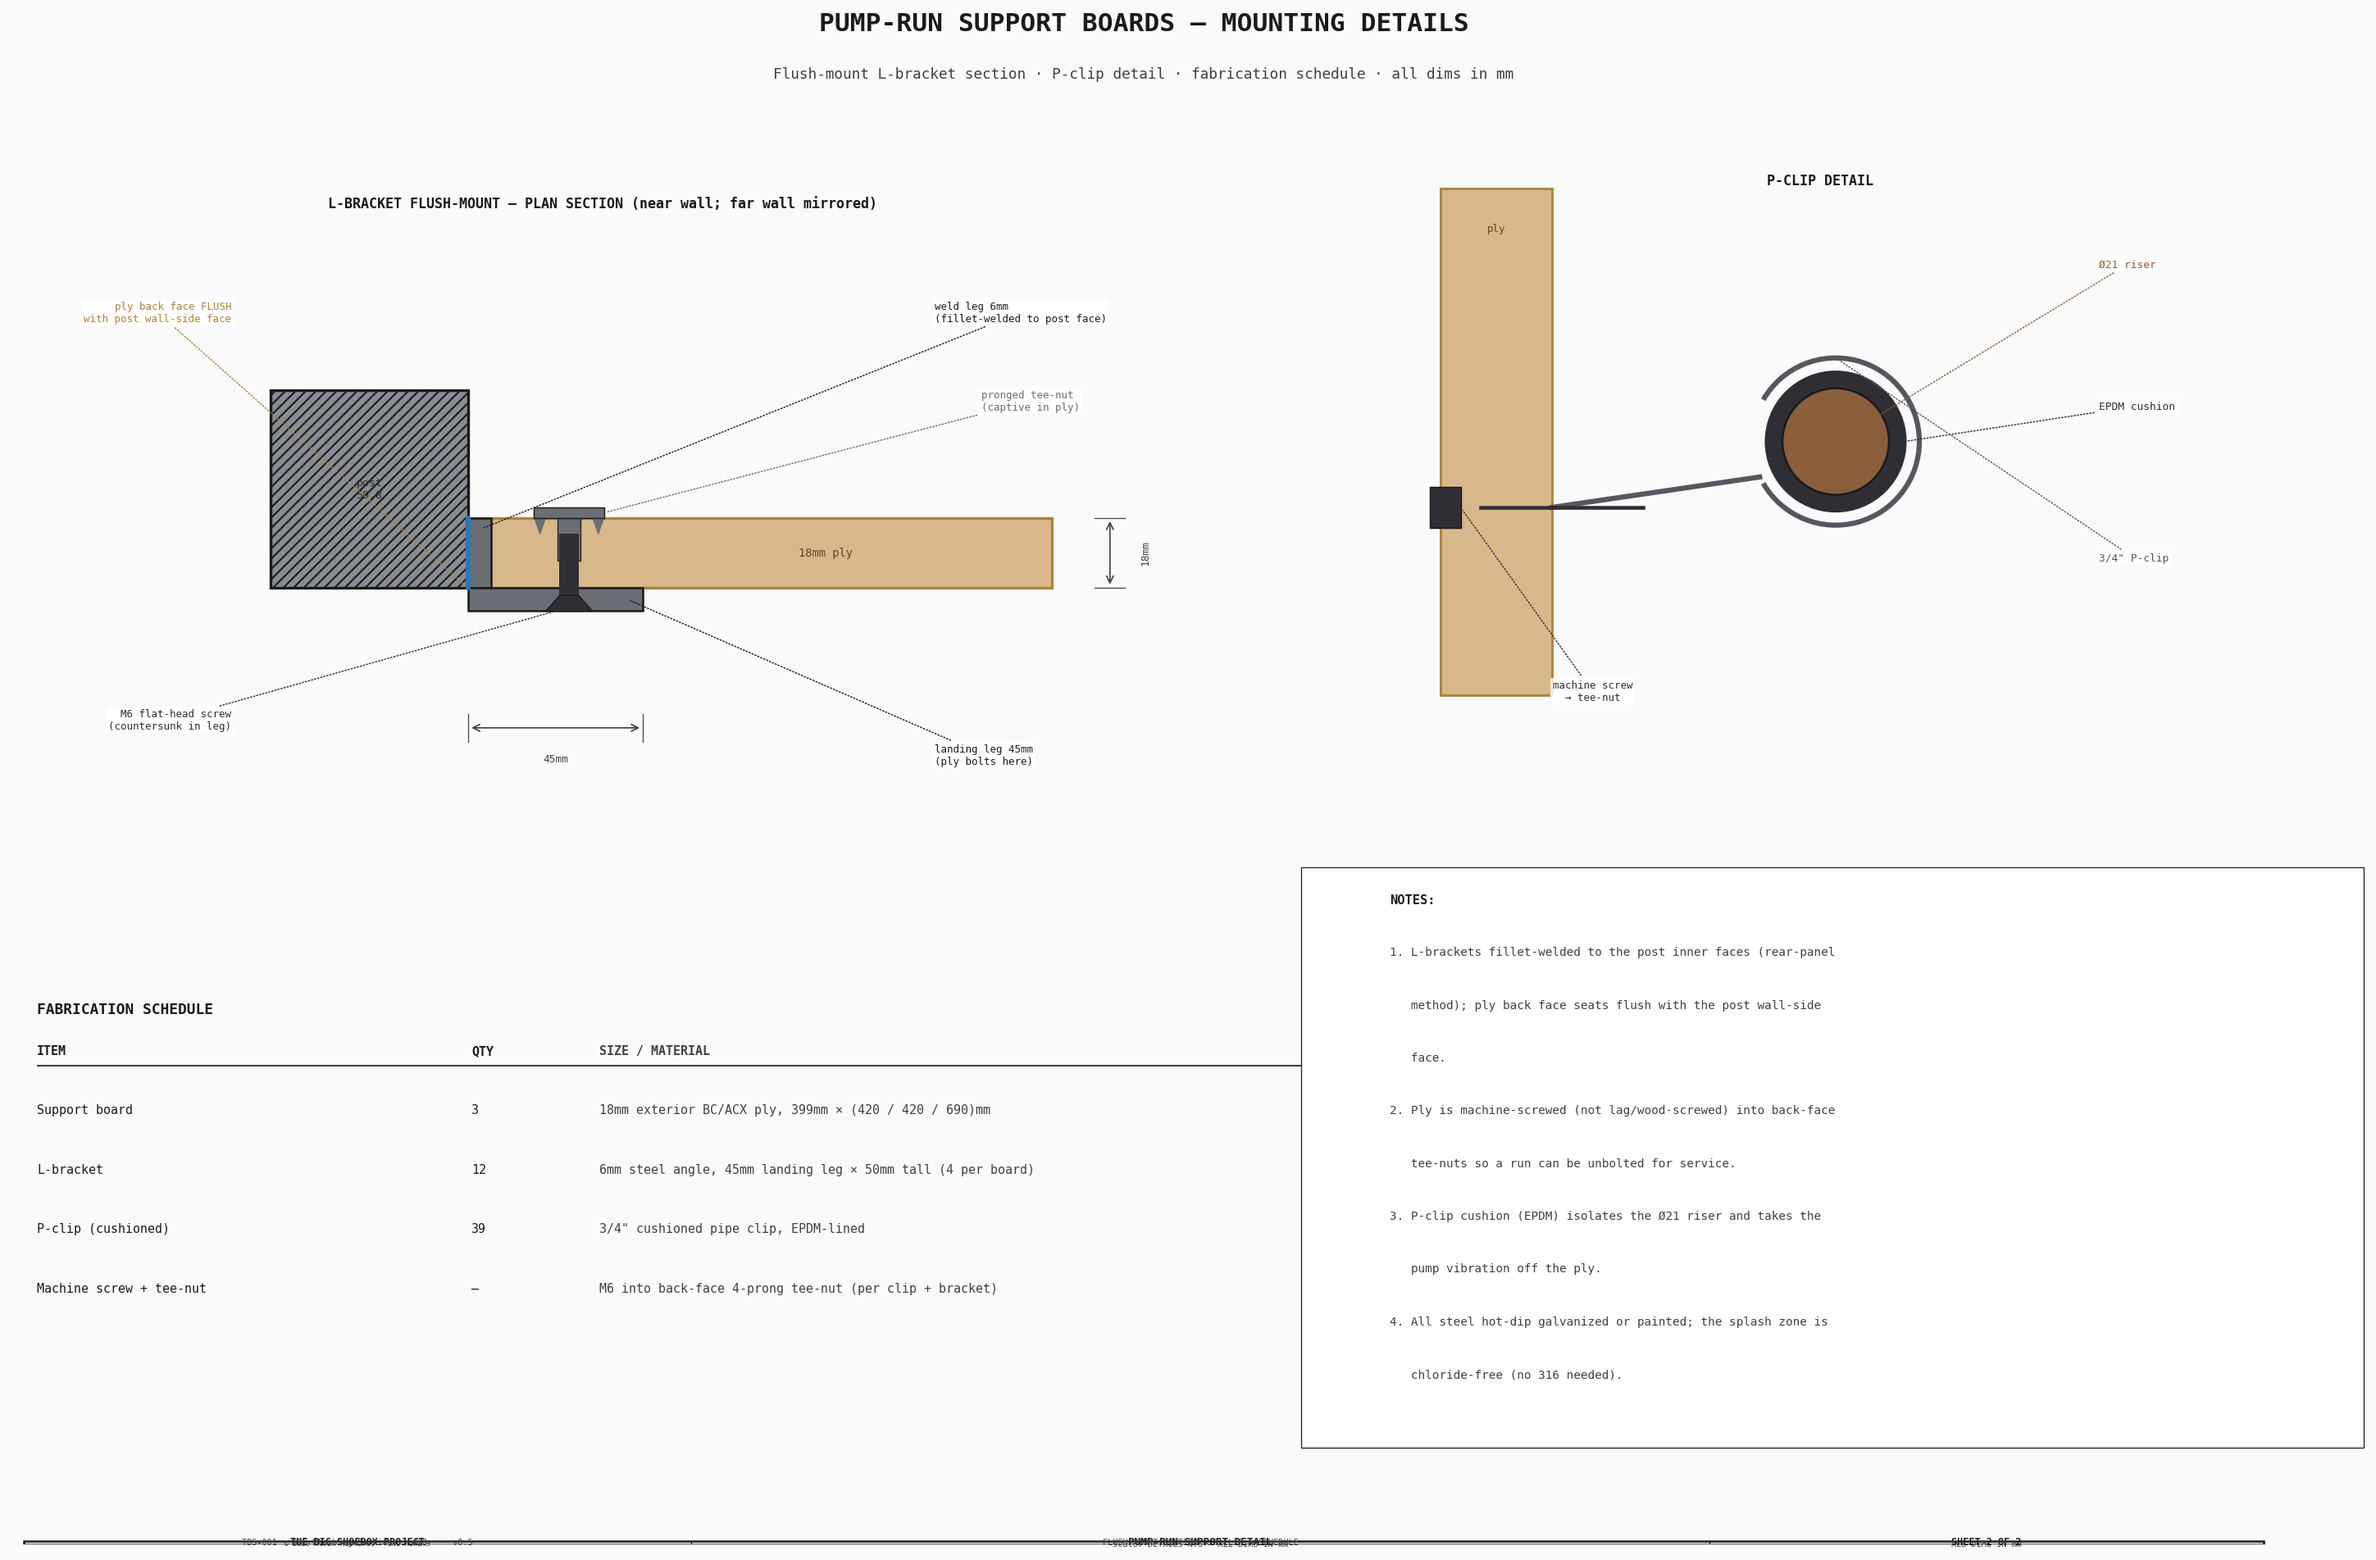
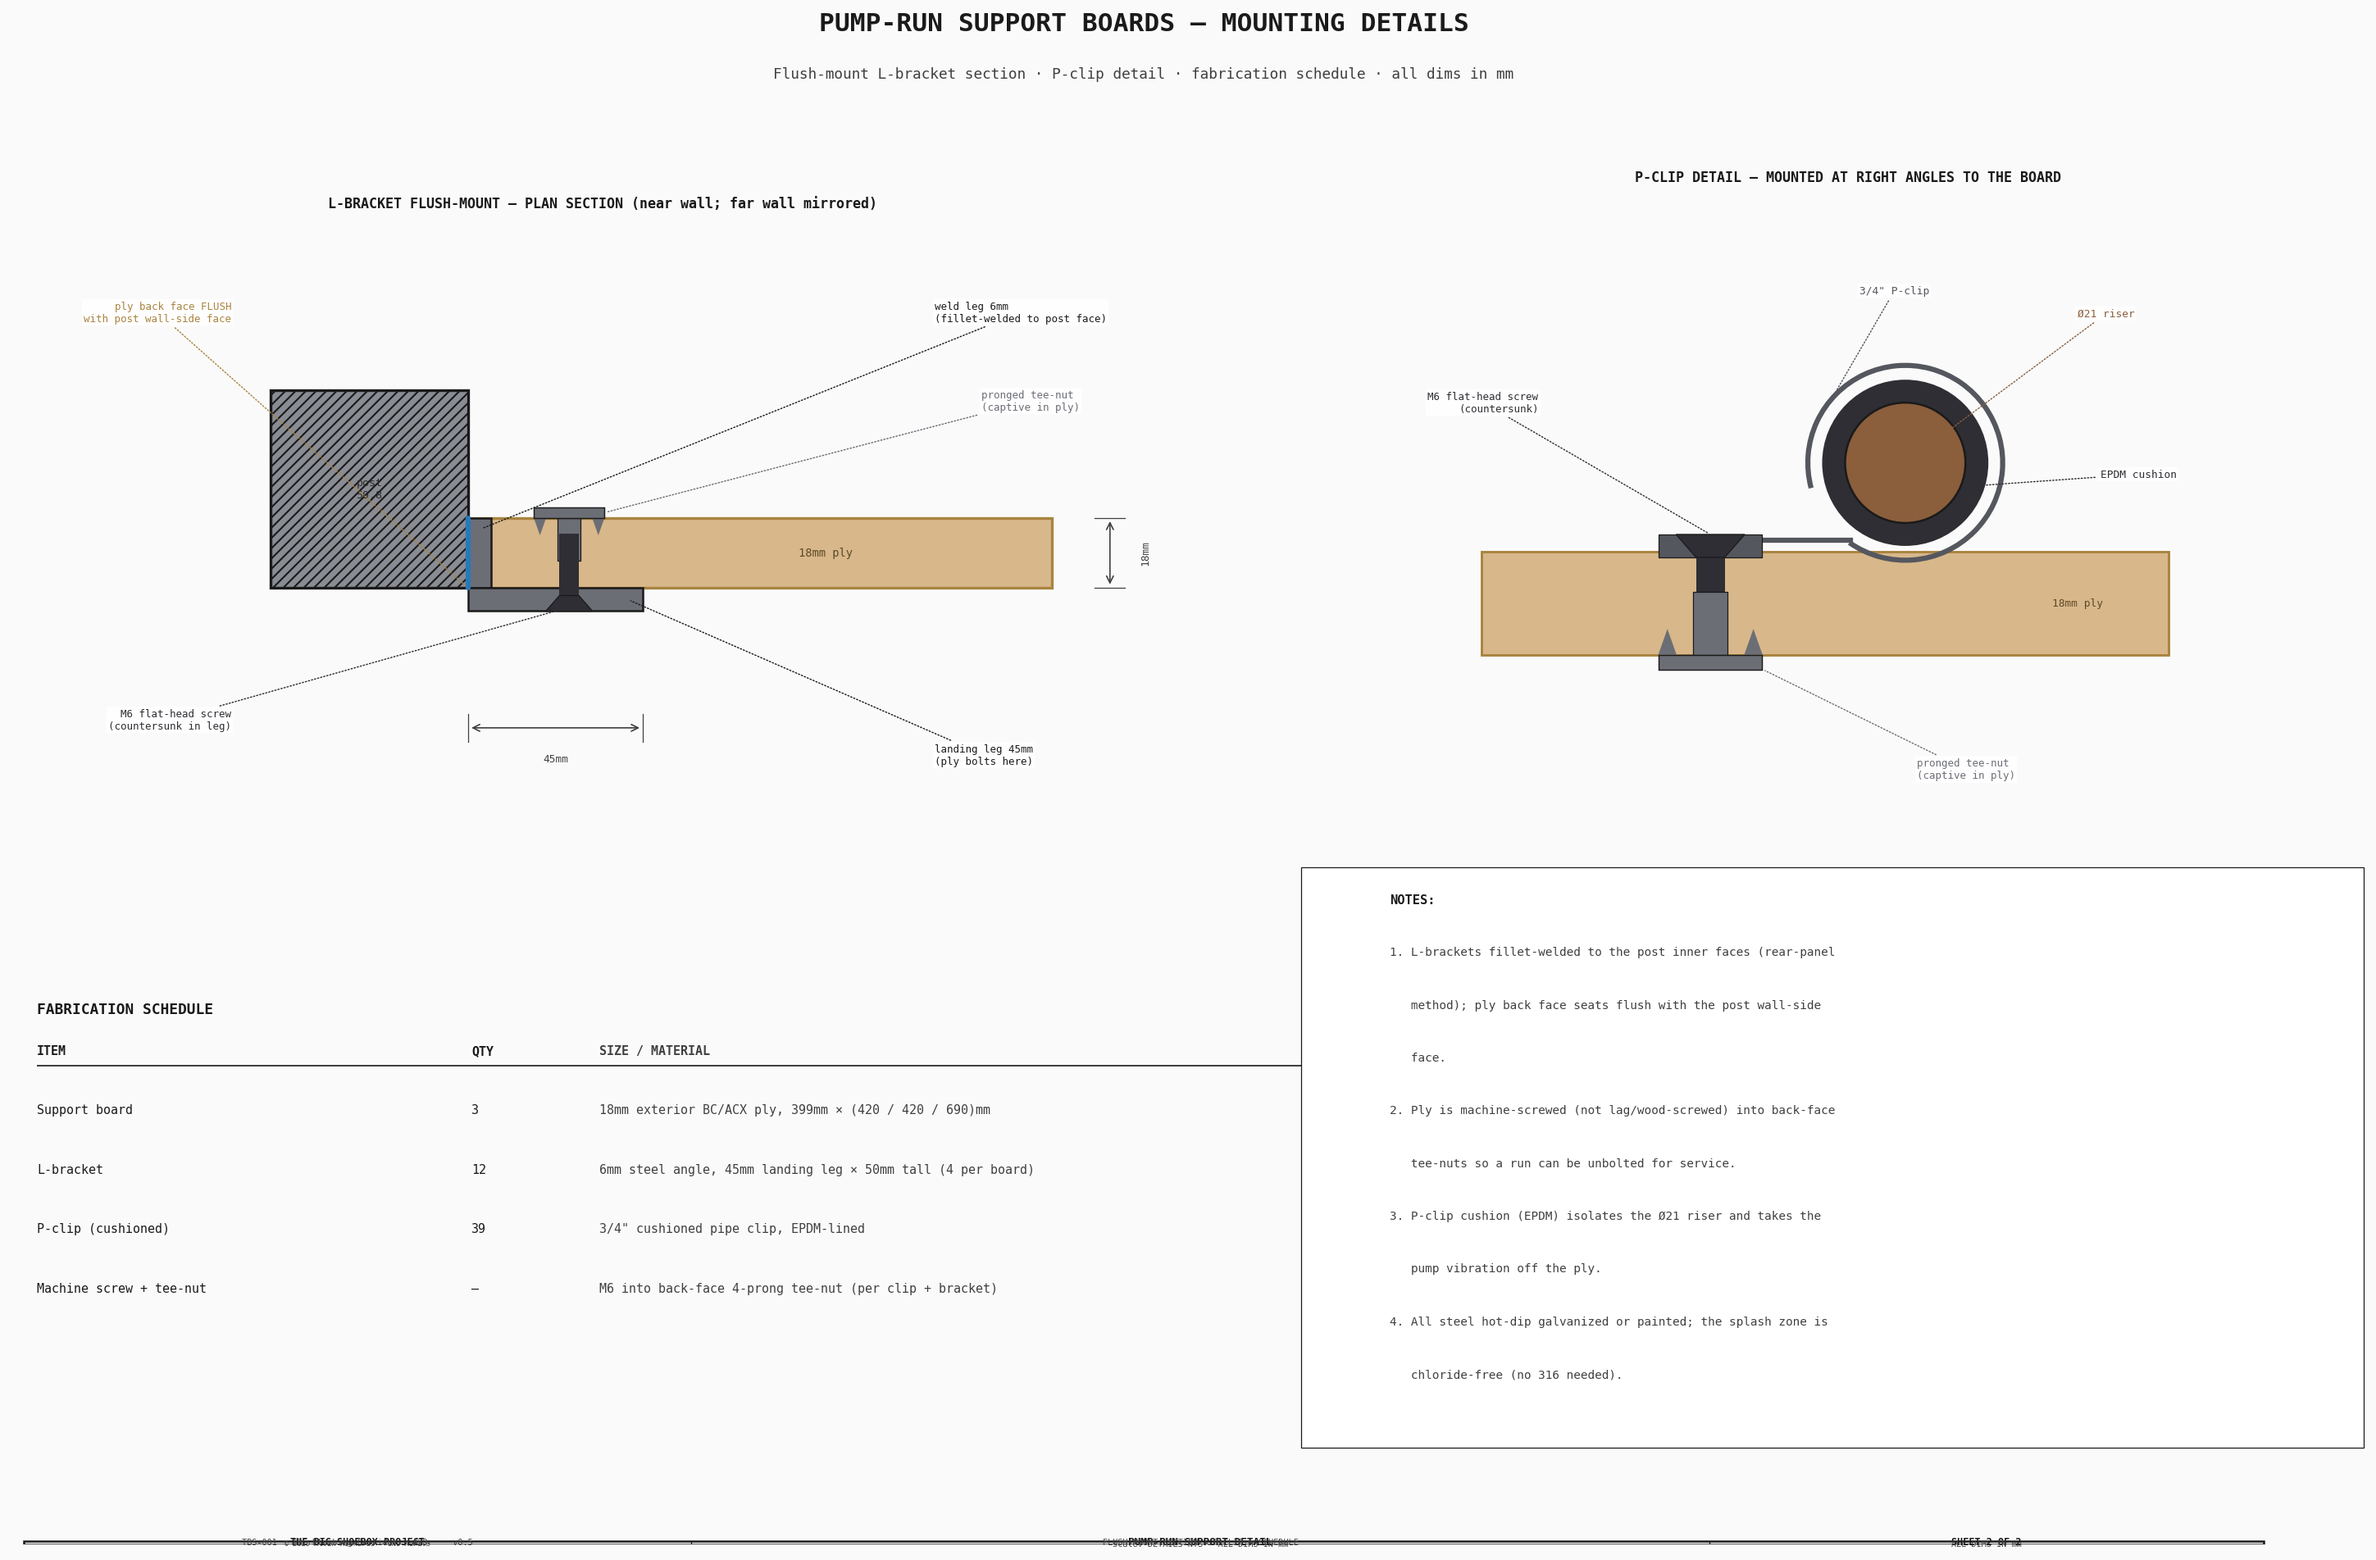
Support-detail Sheet 2: P-clip mounted at right angles with flat-head screw + tee-nut
Reoriented the P-clip cross-section to a horizontal board so the clip screws straight
down at right angles to it, and replaced the schematic fastener with the same conventional
ply-mount joint as the L-bracket: M6 countersunk flat-head screw through the clip foot into
a captive pronged tee-nut on the board underside.

Changed region(s): [[0.5901, 0.093, 0.9317, 0.4651], [0.7453, 0.093, 0.8696, 0.124]]

diff --git a/src/generators/generate_support_detail.py b/src/generators/generate_support_detail.py
@@ -249,34 +249,48 @@ def draw_flush_section(ax):
 
 
 def draw_pclip(ax):
-    """P-clip cross-section: cushioned clip around the Ø21 riser, bolted to the ply."""
-    ax.set_xlim(-70, 95)
-    ax.set_ylim(-55, 60)
+    """P-clip cross-section, drawn with the clip at RIGHT ANGLES to the board (board shown
+    horizontal for the detail): cushioned clip around the Ø21 riser, screwed straight down to
+    the ply with a flat-head machine screw into a captive pronged tee-nut."""
+    ax.set_xlim(-42, 96)
+    ax.set_ylim(-60, 46)
     ax.set_aspect("equal")
     ax.axis("off")
 
-    # ply slab (edge-on) at left
-    _rect(ax, -60, -45, 22, 100, C_PLY, ec=C_PLY_E, lw=1.4, z=2)
-    ax.text(-49, 48, "ply", ha="center", va="top", fontsize=6.0, color="#5C4A28", zorder=4, **FONT)
+    # board — horizontal slab, face up (the clip mounts perpendicular to it)
+    bx0, bx1, bz0 = -30, 90, -42
+    bz1 = bz0 + EQT
+    _rect(ax, bx0, bz0, bx1 - bx0, EQT, C_PLY, ec=C_PLY_E, lw=1.4, z=2)
+    ax.text(bx1 - 16, bz0 + EQT / 2, "18mm ply", ha="center", va="center", fontsize=6.2, color="#5C4A28", zorder=4, **FONT)
 
-    # riser pipe Ø21 with cushion ring
-    ax.add_patch(Circle((18, 5), RP + 3.5, facecolor=C_CUSH, edgecolor="none", zorder=3))   # cushion
-    ax.add_patch(Circle((18, 5), RP, facecolor=C_BROWN, edgecolor=C_OUT, lw=1.2, zorder=4))  # pipe
+    # riser Ø21 + EPDM cushion, sitting just above the board face
+    pcx, pcz = 44, bz1 + RP + 5
+    ax.add_patch(Circle((pcx, pcz), RP + 4, facecolor=C_CUSH, edgecolor="none", zorder=3))
+    ax.add_patch(Circle((pcx, pcz), RP, facecolor=C_BROWN, edgecolor=C_OUT, lw=1.2, zorder=4))
 
-    # P-clip band wrapping the cushion, foot to the ply
-    ax.add_patch(Arc((18, 5), 2 * (RP + 6), 2 * (RP + 6), angle=0, theta1=-150, theta2=150,
-                     lw=3.0, edgecolor=C_CLIP, zorder=5))
-    ax.plot([-38, 3], [-8, -2], color=C_CLIP, lw=3.0, zorder=5)   # foot to ply
+    # P-clip band wrapping the cushion, one flat foot strap to the LEFT, screwed straight down
+    rb = RP + 6.5
+    ax.add_patch(Arc((pcx, pcz), 2 * rb, 2 * rb, angle=0, theta1=235, theta2=195, lw=3.0, edgecolor=C_CLIP, zorder=5))
+    footx = 10
+    band_end_x = pcx - 9.5                                        # the ~235° band end, sitting on the board face
+    ax.plot([band_end_x, footx - 3], [bz1 + 2, bz1 + 2], color=C_CLIP, lw=3.0, zorder=5)   # foot strap along the board
+    ax.add_patch(Rectangle((footx - 9, bz1 - 1), 18, 4, facecolor=C_CLIP, edgecolor=C_OUT, lw=0.6, zorder=6))  # flat foot on the board
 
-    # fastener into the ply
-    ax.plot([-52, -20], [-8, -8], color=C_CUSH, lw=2.2, zorder=6)
-    ax.add_patch(Rectangle((-62, -12), 6, 8, facecolor=C_CUSH, edgecolor=C_OUT, lw=0.7, zorder=6))
+    # fastener: M6 FLAT-HEAD machine screw (in the foot) → captive pronged TEE-NUT (board underside)
+    ax.add_patch(Rectangle((footx - 2.5, bz0 + 4), 5, EQT - 1, facecolor=C_CUSH, edgecolor="none", zorder=7))                 # shank
+    ax.add_patch(Polygon([(footx - 6, bz1 + 3), (footx + 6, bz1 + 3), (footx + 2.5, bz1 - 1), (footx - 2.5, bz1 - 1)],
+                         closed=True, facecolor=C_CUSH, edgecolor=C_OUT, lw=0.6, zorder=9))                                   # flat countersunk head
+    ax.add_patch(Rectangle((footx - 3, bz0), 6, 11, facecolor=C_STEEL_D, edgecolor=C_OUT, lw=0.6, zorder=7))                  # tee-nut barrel into ply
+    ax.add_patch(Rectangle((footx - 9, bz0 - 2.6), 18, 2.6, facecolor=C_STEEL_D, edgecolor=C_OUT, lw=0.7, zorder=9))          # tee-nut flange (underside)
+    for pxp in (footx - 7.5, footx + 7.5):
+        ax.add_patch(Polygon([(pxp - 1.6, bz0), (pxp + 1.6, bz0), (pxp, bz0 + 4.5)], closed=True, facecolor=C_STEEL_D, edgecolor="none", zorder=8))  # prongs
 
-    leader(ax, 18, 5, 70, 40, "Ø21 riser", fs=6.2, color=C_BROWN, ha="left", va="center", font=FONT, bbox=LBL_BG)
-    leader(ax, 18 + RP + 3, 5, 70, 12, "EPDM cushion", fs=6.2, color=C_CUSH, ha="left", va="center", font=FONT, bbox=LBL_BG)
-    leader(ax, 18, 5 + RP + 6, 70, -18, '3/4" P-clip', fs=6.2, color=C_CLIP, ha="left", va="center", font=FONT, bbox=LBL_BG)
-    leader(ax, -56, -8, -30, -42, "machine screw\n→ tee-nut", fs=6.0, color=C_CUSH, ha="center", va="top", font=FONT, bbox=LBL_BG)
-    ax.text(15, 55, "P-CLIP DETAIL", ha="center", va="bottom", fontsize=8, fontweight="bold", color=C_OUT, **FONT)
+    leader(ax, pcx, pcz, pcx + 30, pcz + 26, "Ø21 riser", fs=6.2, color=C_BROWN, ha="left", va="center", font=FONT, bbox=LBL_BG)
+    leader(ax, pcx + RP + 2, pcz - 4, pcx + 34, pcz - 2, "EPDM cushion", fs=6.2, color=C_CUSH, ha="left", va="center", font=FONT, bbox=LBL_BG)
+    leader(ax, pcx - rb, pcz + 4, pcx - 8, pcz + 30, '3/4" P-clip', fs=6.2, color=C_CLIP, ha="left", va="center", font=FONT, bbox=LBL_BG)
+    leader(ax, footx, bz1 + 3, footx - 30, bz1 + 26, "M6 flat-head screw\n(countersunk)", fs=6.0, color=C_CUSH, ha="right", va="center", font=FONT, bbox=LBL_BG)
+    leader(ax, footx + 9, bz0 - 2.5, footx + 36, bz0 - 20, "pronged tee-nut\n(captive in ply)", fs=6.0, color=C_STEEL_D, ha="left", va="center", font=FONT, bbox=LBL_BG)
+    ax.text(34, 40, "P-CLIP DETAIL — MOUNTED AT RIGHT ANGLES TO THE BOARD", ha="center", va="bottom", fontsize=8, fontweight="bold", color=C_OUT, **FONT)
 
 
 def draw_sheet2():
